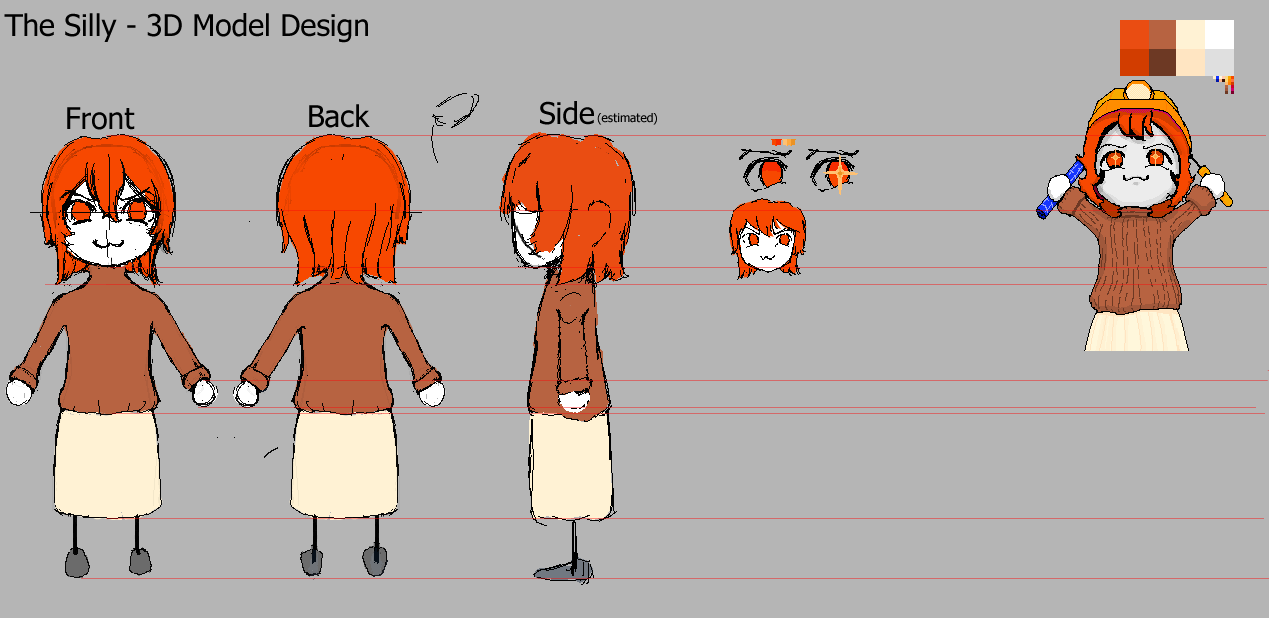
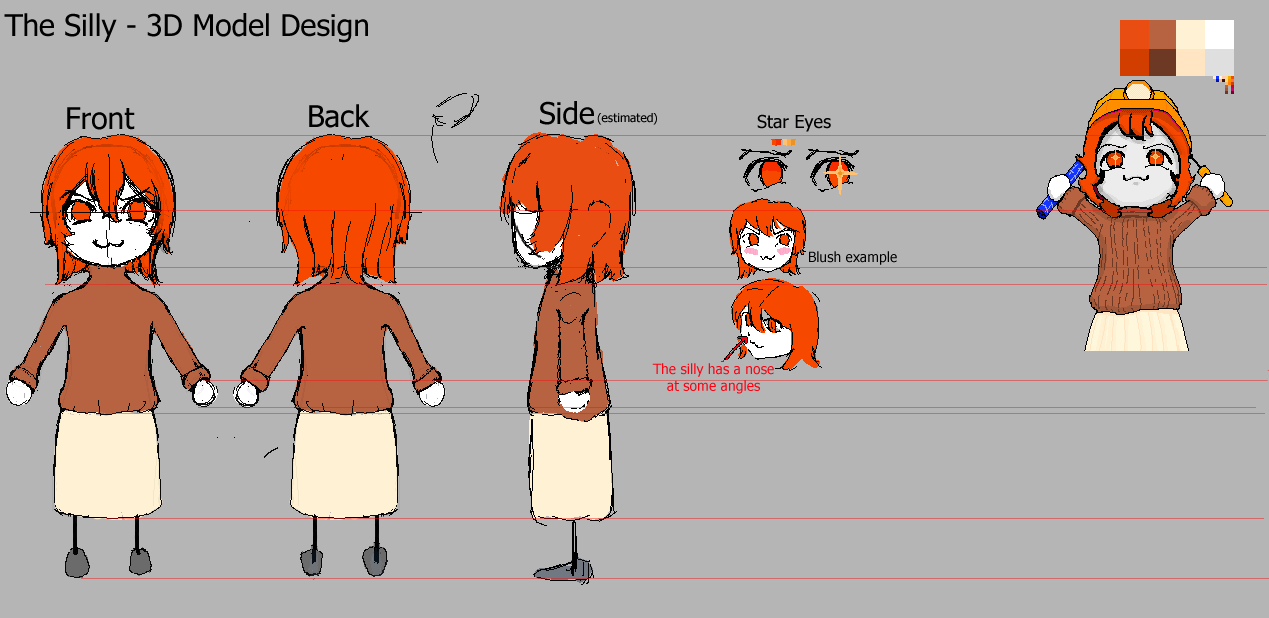
Updated Homepage
This is pretty much just a blog now, So blog Update!!!!

Added screenshots of current progress on the 3d Model and updated current state of Charicter Sheet

Changed region(s): [[0.5225, 0.3997, 0.7069, 0.6456], [0.5839, 0.1845, 0.6761, 0.2152]]

diff --git a/index.html b/index.html
@@ -83,10 +83,19 @@
         <br>
 
         <hr>
-        <h1>The Silly Charicter Sheet</h1>
+        <h1>The Silly 3D Model</h1>
+        <p>Currently I am creating this 3D model for the website!</p>
+        <br>
+        <p>The Design Sheet</p>
         <img width="600px" style="image-rendering: pixelated;" src="img/The Silly Charicter Sheet.png">
         <br>
         <a href="img/The Silly Charicter Sheet.png" target="_blank">Open image in new tab!</a>
+        <br>
+        <br>
+        <p>Screenshot of current progress!</p>
+        <img width="600px" src="img/Screenshot 2023-12-14 210447.png">
+        <br>
+        <a href="img/Screenshot 2023-12-14 210447.png" target="_blank">Open image in new tab!</a>
         <hr>
         <h1>Some music!</h1>
 
